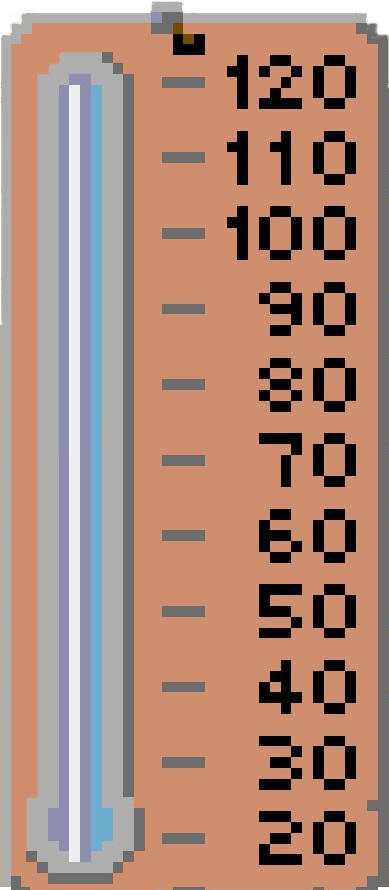
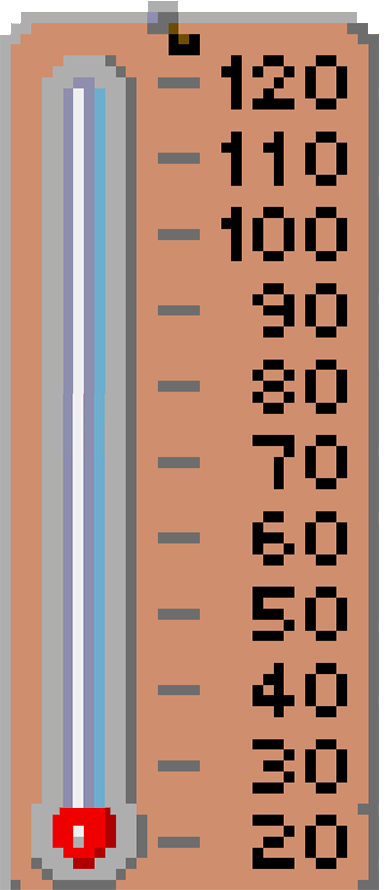
fix: 🐛 Thermometer's value is incorrectly drawn
✅ Closes: #85

diff --git a/code-desktop/src/components/ui/Termometer.tsx b/code-desktop/src/components/ui/Termometer.tsx
@@ -1,50 +1,61 @@
 import React from "react";
-import termometer from "../../images/ui/termometer.png"; 
+import termometer from "../../images/ui/termometer.png";
 
 function Termometer() {
- 
-    return (
-        <div style={{
-            position: 'relative',
-        }}>
-            <img 
-                src={termometer}  
-                alt="Termometer" 
-                style={{
-                    position: 'relative',
-                    zIndex: 0,
-                    top: '2.5%',
-                    bottom: '2.5%',
-                    left: '10%',
-                    height: '95%',
-                }}
-            />
-
-            {/* Dot at the bottom of termometer */}
-            <div style={{
-                position: 'absolute',
-                width: '20px',
-                background: '#ff0000',
-                zIndex: 1,
-                // TODO: it needs to be percentage calculated from dimensions in order to be responsive.
-                bottom: '15px',
-                left: '10px',
-                height: '50px',
-            }}></div>
-
-            {/* Bar of termometer */}
-            <div style={{
-                position: 'absolute',
-                width: '20px',
-                background: '#ff0000',
-                zIndex: 1,
-                // TODO: it needs to be percentage calculated from dimensions in order to be responsive.
-                bottom: '15px',
-                left: '10px',
-                height: '50px',
-            }}></div>
-        </div>
-    )
+  return (
+    <div
+      style={{
+        position: "relative",
+      }}
+    >
+      <img
+        src={termometer}
+        alt="Termometer"
+        style={{
+          position: "relative",
+          zIndex: 0,
+          top: "0%",
+          bottom: "2.5%",
+          left: "0%",
+          height: "95%",
+        }}
+      />
+      {/* Bar of termometer */}
+      <div
+        style={{
+          position: "absolute",
+          width: "8%",
+          background: "#ef0000",
+          zIndex: 1,
+          bottom: "13.5%",
+          left: "18%",
+          height: "35px",
+        }}
+      ></div>
+      <div
+        style={{
+          position: "absolute",
+          width: "2.5384615384615384615384612%",
+          background: "#ae0000",
+          zIndex: 2,
+          bottom: "13.5%",
+          left: "15.6%",
+          height: "35px",
+        }}
+      ></div>
+      <div
+        style={{
+          position: "absolute",
+          width: "2.9615384615384615384615384615385%",
+          background: "#ae0000",
+          zIndex: 2,
+          bottom: "13.5%",
+          left: "24.2%",
+          height: "35px",
+        }}
+      ></div>
+    </div>
+  );
 }
 
 export default Termometer;

diff --git a/CHANGELOG.md b/CHANGELOG.md
@@ -4,70 +4,75 @@ Lost Dutchman Mine Change Log
 0.2.2 April 21, 2024
 -------------------
 
-- Enh #144: Add 512px logo for macos (MadejaMaciej)
-- Enh #78: Linux builds (MadejaMaciej)
-- Bug #115: Change app icon in build (MadejaMaciej)
-- Bug #79: Change build properties (MadejaMaciej)
-- Enh #125: Add internal array to store food and tools (MadejaMaciej)
-- Enh #126: Add internal array to store items and prices (MadejaMaciej)
-- Enh #121: Use auto unpack native modules plugin to reduce loading times and disk consumption (MadejaMaciej)
-- Enh #136: Change lost pixelised font properties (MadejaMaciej)
 - Bug #116: Add favicon in web version (MadejaMaciej)
-- Enh #113: Create redirect file to the game in web version (MadejaMaciej)
+- Bug #115: Change app icon in build (MadejaMaciej)
 - Bug #111: Fix sounds on web version (MadejaMaciej)
-- Enh #112: Change dimensions and margins (MadejaMaciej)
-- Enh #23: Implement changing city map to terrain map when reaching bands (MadejaMaciej)
+- Bug #85: Thermometer's value is incorrectly drawn (MechanikGamer & MadejaMaciej)
+- Bug #79: Change build properties (MadejaMaciej)
+
+- Enh #144: Add 512px logo for macos (MadejaMaciej)
+- Enh #136: Change lost pixelised font properties (MadejaMaciej)
 - Enh #129: Change font to Lost Pixelised Font (MadejaMaciej)
+- Enh #126: Add internal array to store items and prices (MadejaMaciej)
+- Enh #125: Add internal array to store food and tools (MadejaMaciej)
 - Enh #122: Use Electronegativity to check for holes in code (MadejaMaciej)
+- Enh #121: Use auto unpack native modules plugin to reduce loading times and disk consumption (MadejaMaciej)
+- Enh #113: Create redirect file to the game in web version (MadejaMaciej)
+- Enh #112: Change dimensions and margins (MadejaMaciej)
+- Enh #78: Linux builds (MadejaMaciej)
+- Enh #23: Implement changing city map to terrain map when reaching bands (MadejaMaciej)
 - Enh #18: Transfer code to mobile version (MadejaMaciej)
 
 0.2.1 March 25, 2024
 -------------------
 
-- Enh #44: Change country codes to flags (MadejaMaciej)
-- Enh #56: Markdown renderer support for translations (MadejaMaciej)
-- Bug #98: Fix for ratio of main interface background elements (MadejaMaciej)
 - Opt #100: Optimization of player script and animation frames (MadejaMaciej)
+
+- Bug #98: Fix for ratio of main interface background elements (MadejaMaciej)
 - Bug #97: Fix for animation displayed on second keypress (MadejaMaciej)
-- Bug #72: Changed application builder to eliminate squirrel errors (MadejaMaciej)
-- Enh #95: Use translation system to display text in correct language on splash screen (MadejaMaciej)
-- Enh #93: Created info box at the top of the page (MadejaMaciej)
-- Enh #50: Detect system default language (MadejaMaciej)
-- Enh #54: Adjust translation system (MadejaMaciej)
-- Enh #53: Create translation file structure (MadejaMaciej)
-- Enh #83: Turn off double click. (MadejaMaciej)
-- Enh #84: Do not let players resize window under certain size. (MadejaMaciej)
-- Enh #81: Add new languages and correct old ones if code is off. (MadejaMaciej)
 - Bug #82: Adjustments to splash screen (MadejaMaciej)
 - Bug #76: Fix Linux build not working (MadejaMaciej)
+- Bug #72: Changed application builder to eliminate squirrel errors (MadejaMaciej)
+
+- Enh #95: Use translation system to display text in correct language on splash screen (MadejaMaciej)
+- Enh #93: Created info box at the top of the page (MadejaMaciej)
+- Enh #84: Do not let players resize window under certain size. (MadejaMaciej)
+- Enh #83: Turn off double click. (MadejaMaciej)
+- Enh #81: Add new languages and correct old ones if code is off. (MadejaMaciej)
 - Enh #74: Facility for building multiple app versions by one command (MadejaMaciej)
-- Bug #72: Fix squirrel not installing app (MadejaMaciej)
+- Enh #56: Markdown renderer support for translations (MadejaMaciej)
+- Enh #54: Adjust translation system (MadejaMaciej)
+- Enh #53: Create translation file structure (MadejaMaciej)
+- Enh #50: Detect system default language (MadejaMaciej)
+- Enh #44: Change country codes to flags (MadejaMaciej)
 
 0.0.2 March 19, 2024
 -------------------
 
 - Bug #66: Fix player moving in menu and pause screen (MadejaMaciej)
-- Enh #30: Moving left and right in town (MadejaMaciej)
+- Bug #40: Fix player resizing with change of window height (MadejaMaciej)
+- Bug #39: Fix player moving a little bit while resizing the window of game (MadejaMaciej)
+
 - Enh #52: Adjusted font properties (MadejaMaciej)
 - Enh #51: Changed font to Pixelify (MadejaMaciej)
 - Enh #43: Enhanced startup screen adding version and music (MadejaMaciej)
+- Enh #30: Moving left and right in town (MadejaMaciej)
+- Enh #27: Implement initial translation system (MadejaMaciej)
 - Enh #16: Added load game possibility (MadejaMaciej)
 - Enh #15: Added save game possibility (MadejaMaciej)
-- Enh #27: Implement initial translation system (MadejaMaciej)
-- Bug #40: Fix player resizing with change of window height (MadejaMaciej)
-- Bug #39: Fix player moving a little bit while resizing the window of game (MadejaMaciej)
 
 0.0.1 March 10, 2024
 -------------------
 
-- Enh #13: Loading the game + starting new game (MadejaMaciej)
-- Enh #24: Import map assets (MadejaMaciej)
-- Enh #25: Crop and import player animations + sort images to proper directories (MadejaMaciej)
-- Enh #26: Crop and import city assets images (MadejaMaciej)
-- Enh #22: Import Google Font (MadejaMaciej)
 - Bug #8: Get rid off type errors in native app (MadejaMaciej)
-- Enh #12: Add exported images to the game (MadejaMaciej)
 - Bug #6: Get rid off file is not a module error (MadejaMaciej)
+
+- Enh #26: Crop and import city assets images (MadejaMaciej)
+- Enh #25: Crop and import player animations + sort images to proper directories (MadejaMaciej)
+- Enh #24: Import map assets (MadejaMaciej)
+- Enh #22: Import Google Font (MadejaMaciej)
+- Enh #13: Loading the game + starting new game (MadejaMaciej)
+- Enh #12: Add exported images to the game (MadejaMaciej)
 - Enh #3: Setup initial React Native app (MadejaMaciej)
 - Enh #2: Setup initial React webapp (MadejaMaciej)
 - Enh #1: Setup initial electron app (MadejaMaciej)
